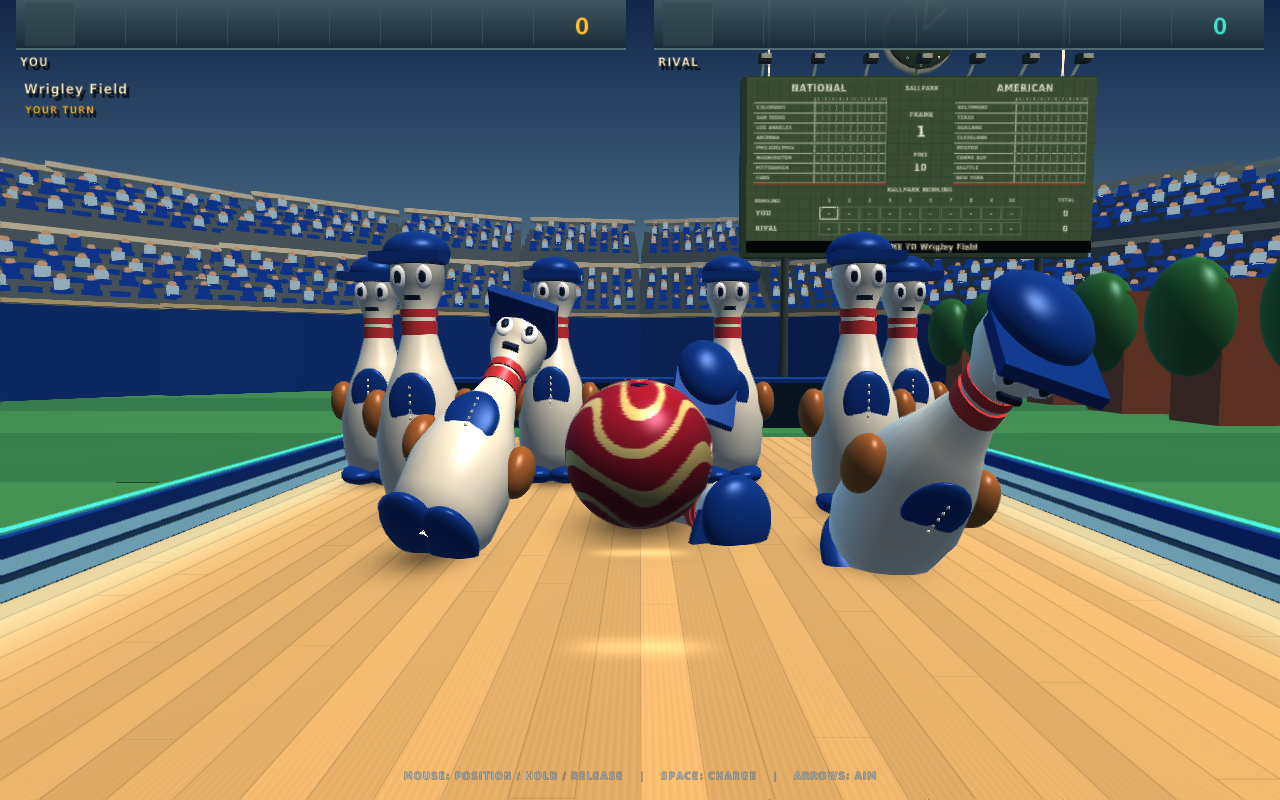
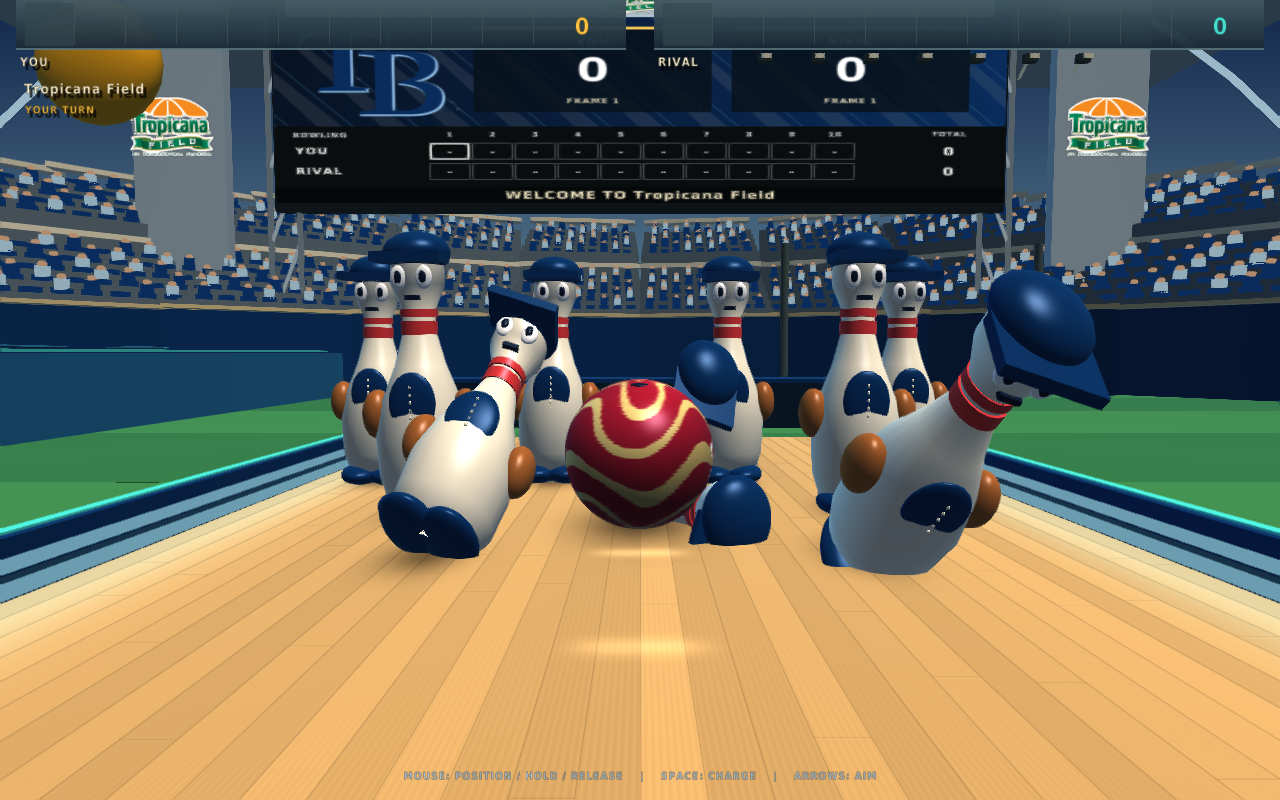
Add sourced stadium identity and lock projected lane framing

diff --git a/native/src/art.hpp b/native/src/art.hpp
@@ -11,6 +11,7 @@ struct Art {
     Shader shader{};
     std::array<Texture2D, 64> skins{};
     RenderTexture2D scoreboard{};
+    std::array<Texture2D, 10> parkLogos{}, teamLogos{};
     std::string scoreboardKey;
     int arena = 0, skin = 0;
     bool mascot = false, inSceneryTransform = false;
@@ -187,6 +188,17 @@ void main(){uv=vertexTexCoord;normal=normalize(mat3(matNormal)*vertexNormal);wor
     }
     void makeSigns() {
         scoreboard = LoadRenderTexture(1024, 512);
+        for (int i = 0; i < 10; ++i) {
+            std::string base = std::string(GetApplicationDirectory()) + "assets/parks/";
+            parkLogos[i] = LoadTexture((base + std::to_string(i) + ".png").c_str());
+            teamLogos[i] = LoadTexture((base + "team-" + std::to_string(i) + ".png").c_str());
+            if (!parkLogos[i].id || !teamLogos[i].id)
+                throw std::runtime_error("Missing stadium artwork");
+            GenTextureMipmaps(&parkLogos[i]);
+            GenTextureMipmaps(&teamLogos[i]);
+            SetTextureFilter(parkLogos[i], TEXTURE_FILTER_TRILINEAR);
+            SetTextureFilter(teamLogos[i], TEXTURE_FILTER_TRILINEAR);
+        }
     }
     void updateScoreboard(const bowling::Match &match) {
         std::string key =
@@ -250,20 +262,41 @@ void main(){uv=vertexTexCoord;normal=normalize(mat3(matNormal)*vertexNormal);wor
             DrawLineEx({610, 310}, {1000, 310}, 4, {158, 42, 35, 255});
             center("BALLPARK BOWLING", 512, 317, 20, letters);
         } else {
-            // Contemporary ballpark LED display: dark face, amber scoring, no blue title panel.
-            for (int y = 8; y < 340; y += 8)
-                for (int x = 8; x < 1024; x += 8)
-                    DrawCircle(x, y, .8f, {40, 45, 31, 150});
-            center(mascot ? "RAYS ADVENTURE" : bowling::arenas[arena].name, 512, 25, 45, WHITE);
-            DrawLineEx({36, 88}, {988, 88}, 3, letters);
-            center("YOU", 245, 117, 29, cream);
-            center("RIVAL", 779, 117, 29, cream);
-            center(std::to_string(total(match.games[0])), 245, 166, 108, letters);
-            center(std::to_string(total(match.games[1])), 779, 166, 108, letters);
-            center("FRAME", 512, 146, 25, cream);
-            center(std::to_string(std::min(10, match.games[match.player].frame + 1)), 512, 189, 65,
-                   letters);
-            center("BIG LEAGUE BOWLING", 512, 299, 22, cream);
+            const int park = mascot ? 9 : arena;
+            Color accent = GetColor(teams[bowling::arenas[park].team].color);
+            DrawRectangleGradientH(0, 0, 1024, 340, {8, 19, 36, 255}, accent);
+            // Layered broadcast graphics: angled light ribbons, team insignia and stat panels.
+            for (int stripe = 0; stripe < 16; ++stripe) {
+                float x = stripe * 90.f - 260;
+                DrawTriangle({x, 0}, {x + 230, 340}, {x + 265, 340}, Fade(WHITE, .09f));
+                DrawLineEx({x + 20, 0}, {x + 280, 340}, 2, Fade(SKYBLUE, .22f));
+            }
+            for (int star = 0; star < 25; ++star) {
+                int x = (star * 137 + 41) % 1024, y = (star * 67 + 13) % 330;
+                DrawLine(x - 3, y, x + 3, y, Fade(WHITE, .35f));
+                DrawLine(x, y - 3, x, y + 3, Fade(WHITE, .35f));
+            }
+            auto fit = [](Texture2D texture, Rectangle rect) {
+                float scale = std::min(rect.width / texture.width, rect.height / texture.height);
+                DrawTextureEx(texture,
+                              {rect.x + (rect.width - texture.width * scale) / 2,
+                               rect.y + (rect.height - texture.height * scale) / 2},
+                              0, scale, WHITE);
+            };
+            DrawRectangleGradientV(20, 16, 984, 82, {236, 242, 242, 255}, {173, 193, 204, 255});
+            fit(parkLogos[park], {300, 20, 424, 74});
+            fit(teamLogos[park], {28, 110, 225, 220});
+            for (int side = 0; side < 2; ++side) {
+                float x = 280 + side * 360.f;
+                DrawRectangleRounded({x, 119, 332, 189}, .04f, 4, {6, 17, 29, 220});
+                DrawRectangle(x, 119, 332, 6,
+                              side ? Color{91, 201, 221, 255} : Color{255, 206, 87, 255});
+                center(side ? "RIVAL" : "YOU", x + 166, 139, 24, WHITE);
+                center(std::to_string(total(match.games[side])), x + 166, 172, 85, WHITE);
+                center("FRAME " + std::to_string(std::min(10, match.games[side].frame + 1)), x + 166,
+                       274, 18, cream);
+            }
+            letters = WHITE;
         }
         // These frame scores are live game data, not invented real-world MLB results.
         text("BOWLING", 25, 351, 17, letters);
@@ -293,18 +326,18 @@ void main(){uv=vertexTexCoord;normal=normalize(mat3(matNormal)*vertexNormal);wor
         GenTextureMipmaps(&scoreboard.texture);
         SetTextureFilter(scoreboard.texture, TEXTURE_FILTER_TRILINEAR);
     }
-    void sign(Texture2D t, Vector3 p, float w, float h) {
+    void sign(Texture2D t, Vector3 p, float w, float h, bool image = false) {
         rlSetTexture(t.id);
         rlBegin(RL_QUADS);
         rlColor4ub(255, 255, 255, 255);
         rlNormal3f(0, 0, -1);
-        rlTexCoord2f(1, 0);
+        rlTexCoord2f(1, image ? 1 : 0);
         rlVertex3f(p.x - w / 2, p.y - h / 2, p.z);
-        rlTexCoord2f(1, 1);
+        rlTexCoord2f(1, image ? 0 : 1);
         rlVertex3f(p.x - w / 2, p.y + h / 2, p.z);
-        rlTexCoord2f(0, 1);
+        rlTexCoord2f(0, image ? 0 : 1);
         rlVertex3f(p.x + w / 2, p.y + h / 2, p.z);
-        rlTexCoord2f(0, 0);
+        rlTexCoord2f(0, image ? 1 : 0);
         rlVertex3f(p.x + w / 2, p.y - h / 2, p.z);
         rlEnd();
         rlSetTexture(0);
@@ -547,17 +580,6 @@ void main(){uv=vertexTexCoord;normal=normalize(mat3(matNormal)*vertexNormal);wor
             box({0, 3, 35}, {31, 1, .6f}, cream);
         }
         if (arena == 9) {
-            for (int ring = 0; ring < 5; ++ring) {
-                float z = -2 + ring * 10.f;
-                Vector3 last{-25, 6, z};
-                for (int i = 1; i <= 32; ++i) {
-                    float a = PI * i / 32;
-                    Vector3 next{-25 * std::cos(a), 6 + 14 * std::sin(a), z};
-                    beam(last, next, .12f, cream);
-                    last = next;
-                }
-            }
-            box({0, 21, 17}, {56, .3f, 51}, {128, 165, 190, 255});
             box({9, 1, 19}, {5, 2, 16}, {31, 104, 149, 255});
             box({9, 2.05f, 19}, {4.5f, .08f, 15.5f}, aqua);
             for (int i = 0; i < 5; ++i)
@@ -729,6 +751,13 @@ void main(){uv=vertexTexCoord;normal=normalize(mat3(matNormal)*vertexNormal);wor
         box({0, 0, 0}, {width, .035f, Vector3Length(d)}, tint);
         rlPopMatrix();
     }
+    void logoSign(int park, Vector3 position, float width, float height) {
+        auto texture = parkLogos[park];
+        float aspect = float(texture.width) / texture.height;
+        float w = std::min(width, height * aspect), h = w / aspect;
+        // sign() expects render textures (inverted Y); loaded PNGs use opposite UVs.
+        sign(texture, position, w, h, true);
+    }
     void stadiumScenery(float time, Color team) {
         // The playable lane sits on the diamond, with a full ballpark around it.
         const float extra = geo::sceneryExtension;
@@ -788,8 +817,26 @@ void main(){uv=vertexTexCoord;normal=normalize(mat3(matNormal)*vertexNormal);wor
             }
         // Stadium identity belongs on the outfield infrastructure, not over the pins.
         Color boardPaint = (arena == 0 || arena == 1) ? Color{58, 77, 51, 255} : Color{19, 23, 25, 255};
-        box({-15, 12, 42 + extra}, {19, 9.6f, .8f}, boardPaint);
-        sign(scoreboard.texture, {-15, 12, 41.5f + extra}, 18.6f, 9.3f);
+        float boardX = arena == 9 ? 0.f : -15.f, boardW = arena == 9 ? 39.f : (arena == 0 ? 19.f : 23.f);
+        float boardY = arena == 9 ? 16.f : (arena == 0 ? 12.f : 14.f),
+              boardH = arena == 9 ? 12.f : (arena == 0 ? 9.3f : 11.5f);
+        box({boardX, boardY, 42 + extra}, {boardW + .7f, boardH + .7f, .8f}, boardPaint);
+        sign(scoreboard.texture, {boardX, boardY, 41.5f + extra}, boardW, boardH);
+        if (arena != 0) {
+            beam({boardX-boardW/2,boardY+boardH/2+1,42+extra},
+                 {boardX+boardW/2,boardY+boardH/2+1,42+extra},.12f,{110,126,137,255});
+            logoSign(arena, {boardX, boardY + boardH / 2 + 3.4f, 41.55f + extra}, boardW - 1, 6.2f);
+        }
+        // Exposed steel legs and diagonal trusses keep the board a stadium structure.
+        for (int side : {-1, 1})
+            for (int level = 0; level < 5; ++level) {
+                float x = boardX + side * (boardW / 2 + .8f), y = level * 4.f;
+                beam({x, y, 42 + extra}, {x, y + 4, 42 + extra}, .12f, {85, 97, 103, 255});
+                beam({x - side * 1.6f, y, 42 + extra}, {x - side * 1.6f, y + 4, 42 + extra}, .12f,
+                     {85, 97, 103, 255});
+                beam({x, y, 42 + extra}, {x - side * 1.6f, y + 4, 42 + extra}, .08f,
+                     {131, 144, 151, 255});
+            }
         for (float x : {-22.f, -8.f})
             cyl({x, 0, 42 + extra}, .22f, 8, {66, 77, 72, 255});
         for (int lamp = -3; lamp <= 3; ++lamp) {
@@ -829,8 +876,18 @@ void main(){uv=vertexTexCoord;normal=normalize(mat3(matNormal)*vertexNormal);wor
         if (arena == 9) {
             for (float z : {-2.f, 14.f + extra / 3, 30.f + extra * .66f, 46.f + extra})
                 arch(z, 49, 31, {155, 184, 200, 255}, .15f);
-            box({0, 32, 20 + extra / 2}, {115, .3f, 90 + extra}, {107, 147, 177, 255});
-            sign(scoreboard.texture, {17, 10, 42 + extra}, 7, 3.5f);
+            box({0, 32, 20 + extra / 2}, {115, .3f, 90 + extra}, {167, 174, 175, 255});
+            // Tropicana's roof catwalk, orange landmark and flanking display pylons.
+            for (float y : {27.f, 28.f})
+                beam({-43, y, 40 + extra}, {43, y, 40 + extra}, .12f, {48, 59, 67, 255});
+            for (int x = -42; x <= 42; x += 3)
+                beam({float(x), 27, 40 + extra}, {float(x), 28, 40 + extra}, .07f, cream);
+            orb({28, 17, 41 + extra}, {3.2f, 3.2f, 1.5f}, {255, 170, 16, 255});
+            beam({29, 19, 41 + extra}, {31, 23, 41 + extra}, .17f, {245, 233, 198, 255});
+            for (int side : {-1, 1}) {
+                box({side * 25.f, 13, 42 + extra}, {5, 16, .7f}, {181, 197, 202, 255});
+                logoSign(9, {side * 25.f, 14, 41.5f + extra}, 4.6f, 8.f);
+            }
         }
     }
     void world(const bowling::Simulation &sim, const bowling::Shot &shot, bool aim, int selected,
@@ -924,6 +981,10 @@ void main(){uv=vertexTexCoord;normal=normalize(mat3(matNormal)*vertexNormal);wor
         for (Model m : {cube, sphere, cylinder, pin, wing, tube, course})
             UnloadModel(m);
         for (auto t : skins)
+            UnloadTexture(t);
+        for (auto t : parkLogos)
+            UnloadTexture(t);
+        for (auto t : teamLogos)
             UnloadTexture(t);
         UnloadRenderTexture(scoreboard);
         UnloadShader(shader);

diff --git a/native/tests/rules.cpp b/native/tests/rules.cpp
@@ -48,6 +48,21 @@ int main() {
           "fixed ball and rack proportion baseline");
     check(geometry::stadiumCamera.fov == 55 && geometry::mascotCamera.fov == 53,
           "art updates preserve camera framing presets");
+    check(geometry::stadiumCamera.height == 6.5f && geometry::stadiumCamera.back == -12.f &&
+              geometry::stadiumCamera.targetHeight == .6f && geometry::mascotCamera.height == 4.f &&
+              geometry::mascotCamera.back == -7.f && geometry::mascotCamera.targetHeight == -1.f,
+          "full camera baseline stays fixed across stadium artwork updates");
+    // Independent perspective projection: guard visible distance, not just world length.
+    auto projectedY = [](float z) {
+        const auto c = geometry::stadiumCamera;
+        float dz = geometry::headPin - c.back, dy = c.targetHeight - c.height;
+        float length = std::sqrt(dz * dz + dy * dy), fy = dy / length, fz = dz / length;
+        float depth = -c.height * fy + (z - c.back) * fz;
+        float up = -c.height * fz - (z - c.back) * fy;
+        return 400.f - 400.f * up / (depth * std::tan(c.fov * 3.14159265f / 360.f));
+    };
+    float visibleRun = projectedY(geometry::foulLine) - projectedY(geometry::headPin);
+    check(visibleRun > 285 && visibleRun < 305, "launch view preserves lane run on an 800px display");
     check(geometry::renderX(geometry::launchMin) > geometry::renderX(geometry::launchMax),
           "mouse right maps to camera right looking down positive Z");
     Simulation dimensions;

diff --git a/native/src/main.cpp b/native/src/main.cpp
@@ -321,6 +321,10 @@ int main(int argc, char **argv) {
             look = {std::clamp(geometry::renderX(view.ball.x) * .3f, -1.5f, 1.5f),
                     match.mascot ? 1.5f : .9f, z + 12};
         }
+        if (screen == 1 && state == 0) {
+            camera.position = desired;
+            camera.target = look;
+        }
         camera.position =
             Vector3Lerp(camera.position, desired, std::min(1.f, dt * (state == 1 ? 18 : 5)));
         camera.target = Vector3Lerp(camera.target, look, std::min(1.f, dt * (state == 1 ? 18 : 5)));

diff --git a/native/src/lane_geometry.hpp b/native/src/lane_geometry.hpp
@@ -28,7 +28,7 @@ inline constexpr float rackZ(int row) {
 struct CameraPreset {
     float height, back, targetHeight, fov;
 };
-inline constexpr CameraPreset stadiumCamera{3.8f, -8.f, 1.3f, 55.f};
+inline constexpr CameraPreset stadiumCamera{6.5f, -12.f, .6f, 55.f};
 inline constexpr CameraPreset mascotCamera{4.f, -7.f, -1.f, 53.f};
 static_assert(rackX(3, 0) - pinRadius > 0 && rackX(3, 3) + pinRadius < width);
 static_assert(rackZ(3) + pinRadius < deckEnd && deckEnd < surfaceEnd);

diff --git a/native/assets/parks/SOURCES.md b/native/assets/parks/SOURCES.md
@@ -1,0 +1,43 @@
+# Stadium artwork sources
+Stadium wordmarks identify the depicted venues; trademarks belong to their respective owners. Downloaded from the Wikipedia file sources below. Reference photos are used for study only and are not bundled. Team marks from MLB static asset server. No endorsement implied.
+
+- Wrigley_Field: https://en.wikipedia.org/wiki/Wrigley_Field
+  - Wordmark: https://upload.wikimedia.org/wikipedia/en/f/fa/Wrigley_Field_Logo.svg
+  - Photo reference: https://thumb.wikimedia.org/wikipedia/commons/thumb/c/c9/Wrigley_Field_in_line_with_sign.jpg/960px-Wrigley_Field_in_line_with_sign.jpg
+- Fenway_Park: https://en.wikipedia.org/wiki/Fenway_Park
+  - Wordmark: https://upload.wikimedia.org/wikipedia/en/7/71/Fenway_Park_logo.svg
+  - Photo reference: https://thumb.wikimedia.org/wikipedia/commons/thumb/4/4f/131023-F-PR861-033_Hanscom_participates_in_World_Series_pregame_events.jpg/960px-131023-F-PR861-033_Hanscom_participates_in_World_Series_pregame_events.jpg
+- Oracle_Park: https://en.wikipedia.org/wiki/Oracle_Park
+  - Wordmark: https://upload.wikimedia.org/wikipedia/en/4/4b/Oracle_Park_logo.svg
+  - Photo reference: https://thumb.wikimedia.org/wikipedia/commons/thumb/8/8e/Oracle_Park_2021.jpg/960px-Oracle_Park_2021.jpg
+- PNC_Park: https://en.wikipedia.org/wiki/PNC_Park
+  - Wordmark: https://upload.wikimedia.org/wikipedia/commons/c/cd/PNC_Park_logo_2021.svg
+  - Photo reference: https://thumb.wikimedia.org/wikipedia/commons/thumb/0/0e/Pittsburgh_Pirates_park_%28Unsplash%29.jpg/960px-Pittsburgh_Pirates_park_%28Unsplash%29.jpg
+- Coors_Field: https://en.wikipedia.org/wiki/Coors_Field
+  - Wordmark: https://upload.wikimedia.org/wikipedia/en/6/61/Coors_Field_logo.svg
+  - Photo reference: https://thumb.wikimedia.org/wikipedia/commons/thumb/e/e2/Coors_Field_July_2015.jpg/960px-Coors_Field_July_2015.jpg
+- Kauffman_Stadium: https://en.wikipedia.org/wiki/Kauffman_Stadium
+  - Wordmark: https://upload.wikimedia.org/wikipedia/en/e/e9/Kauffman_Stadium_logo.png
+  - Photo reference: https://thumb.wikimedia.org/wikipedia/commons/thumb/3/35/Kauffman2017.jpg/960px-Kauffman2017.jpg
+- Chase_Field: https://en.wikipedia.org/wiki/Chase_Field
+  - Wordmark: https://upload.wikimedia.org/wikipedia/en/6/63/Chase_field_logo.svg
+  - Photo reference: https://thumb.wikimedia.org/wikipedia/commons/thumb/a/a2/Reserve_A-10_Warthogs_Flyover_2023_World_Series_%288099146%29.jpg/960px-Reserve_A-10_Warthogs_Flyover_2023_World_Series_%288099146%29.jpg
+- T-Mobile_Park: https://en.wikipedia.org/wiki/T-Mobile_Park
+  - Wordmark: https://upload.wikimedia.org/wikipedia/commons/c/c4/T_mobile_park_logo.svg
+  - Photo reference: https://thumb.wikimedia.org/wikipedia/commons/thumb/1/10/SafecoFieldTop.jpg/960px-SafecoFieldTop.jpg
+- Yankee_Stadium: https://en.wikipedia.org/wiki/Yankee_Stadium
+  - Wordmark: https://upload.wikimedia.org/wikipedia/en/e/e2/Yankee_Stadium_Logo.svg
+  - Photo reference: https://thumb.wikimedia.org/wikipedia/commons/thumb/a/af/Yankee_Stadium_overhead_2010.jpg/960px-Yankee_Stadium_overhead_2010.jpg
+- Tropicana_Field: https://en.wikipedia.org/wiki/Tropicana_Field
+  - Wordmark: https://upload.wikimedia.org/wikipedia/en/c/c6/Tropicana_Field.svg
+  - Photo reference: https://thumb.wikimedia.org/wikipedia/commons/thumb/5/5e/PXL_20220528_205520913.jpg/960px-PXL_20220528_205520913.jpg
+- Team mark 0: https://www.mlbstatic.com/team-logos/112.svg
+- Team mark 1: https://www.mlbstatic.com/team-logos/111.svg
+- Team mark 2: https://www.mlbstatic.com/team-logos/137.svg
+- Team mark 3: https://www.mlbstatic.com/team-logos/134.svg
+- Team mark 4: https://www.mlbstatic.com/team-logos/115.svg
+- Team mark 5: https://www.mlbstatic.com/team-logos/118.svg
+- Team mark 6: https://www.mlbstatic.com/team-logos/109.svg
+- Team mark 7: https://www.mlbstatic.com/team-logos/136.svg
+- Team mark 8: https://www.mlbstatic.com/team-logos/147.svg
+- Team mark 9: https://www.mlbstatic.com/team-logos/139.svg

diff --git a/native/PROPORTIONS.md b/native/PROPORTIONS.md
@@ -22,3 +22,7 @@ Simulation and rendering now use identical Z coordinates. The only playable X co
 Scenery may use an authored coordinate transform, but it must be popped before drawing the playable surface, ball and rack. Stadium stands and the mascot course's back scenery extend using the deck-position-derived scenery offset. Never stretch playable geometry to fit a background.
 
 The existing rules suite checks the baseline length/width, body sizes, spacing, camera fields of view, rack containment and launch bounds. The campaign suite checks both drag mappings, opposite-direction sling aim and power limits. Intentional layout changes require updating the shared definition, its regression checks and this document; graphics-only changes must preserve them. Validate a launch view and a pin-impact view in both modes before preserving a graphics milestone.
+
+## Camera correction after stadium references
+
+World length remains 80, width 10, all body sizes unchanged. Stadium ready camera is intentionally raised from 3.8 to 6.5 and moved back from -8 to -12, targeting height 0.6 with unchanged 55-degree FOV. This exposes more lane floor and reduces the oversized foreground ball. Ready framing snaps to the preset instead of retaining a menu/previous-shot interpolation. Mascot and follow cameras are unchanged. Tests now lock every ready camera component and require 285–305 screen pixels between foul line and head-pin base at 1280×800.

diff --git a/native/docs/VALIDATION.md b/native/docs/VALIDATION.md
@@ -1,3 +1,12 @@
+# Stadium identity and camera follow-up
+
+- World lane remains 80×10; ball, pin, rack and simulation dimensions unchanged. Stadium ready camera deliberately raised and pulled back. Full camera constants and independent perspective projection now have regression checks (about 295 pixels foul-line-to-head-pin base at 1280×800).
+- Linux scoring/geometry/physics and campaign suites pass. Real native launch/impact captures checked for both modes; Wrigley, Chase and Tropicana stadium previews regenerated.
+- Actual stadium wordmarks for all ten parks and MLB team insignia load from packaged PNGs. Sources recorded in assets/parks/SOURCES.md. Reference photographs were inspected as a contact sheet; photographs are not bundled.
+- Video displays show live bowling scores over layered team graphics. Tropicana gets a wide video wall, roof catwalk and orange landmark. No claim of photoreal stadium reconstruction.
+- Tropicana full graphical match completed: 37 rolls, 69–200; live scoreboard result captured.
+- Windows cross-build succeeds; all 20 logo PNGs and source attribution must match the ZIP. Windows runtime remains unverified.
+
 # Current stadium / Rays / scoreboard validation
 
 - Linux build passes scoring, geometry regression, physics and campaign checks, including 64 designs, ten stadiums, save/restore, powers, steering, boost and AI matches.

diff --git a/native/ART_DIRECTION.md b/native/ART_DIRECTION.md
@@ -1,3 +1,5 @@
+Latest stadium identity pass: actual sourced stadium wordmarks and MLB marks in native/assets/parks (provenance in SOURCES.md), layered video graphics and steel trusses. Tropicana has a wide screen, catwalk and orange landmark. Stadium ready camera intentionally reframed; world geometry remains 80×10. See native/PROPORTIONS.md for the projected-view regression guard. Existing ten-park roster unchanged; Citi, Comerica and Rate photos inform presentation only.
+
 # Current direction — stadium bowling and Rays adventure
 
 The references specify the rendering style and gameplay feel, not literal scenery to transplant into every mode. The user explicitly corrected the indoor-hall approach: stadium mode must feel like a baseball-themed Zombie Bowl-a-Rama, with a bowling lane in the middle of the selected stadium. Mascot mode should feel like a Tampa Bay Rays-inspired Polar/Shrek bowling game.

diff --git a/HANDOFF.md b/HANDOFF.md
@@ -1,3 +1,5 @@
+Latest stadium identity pass: actual sourced stadium wordmarks and MLB marks in native/assets/parks (provenance in SOURCES.md), layered video graphics and steel trusses. Tropicana has a wide screen, catwalk and orange landmark. Stadium ready camera intentionally reframed; world geometry remains 80×10. See native/PROPORTIONS.md for the projected-view regression guard. Existing ten-park roster unchanged; Citi, Comerica and Rate photos inform presentation only.
+
 Latest signage: stadium scoreboards replace blue title panels. Wrigley follows the supplied green manual-board reference, with a 3D clock, flags and lamps; bowling scores update live. See native/docs/wrigley-scoreboard.png.
 
 # Current handoff
